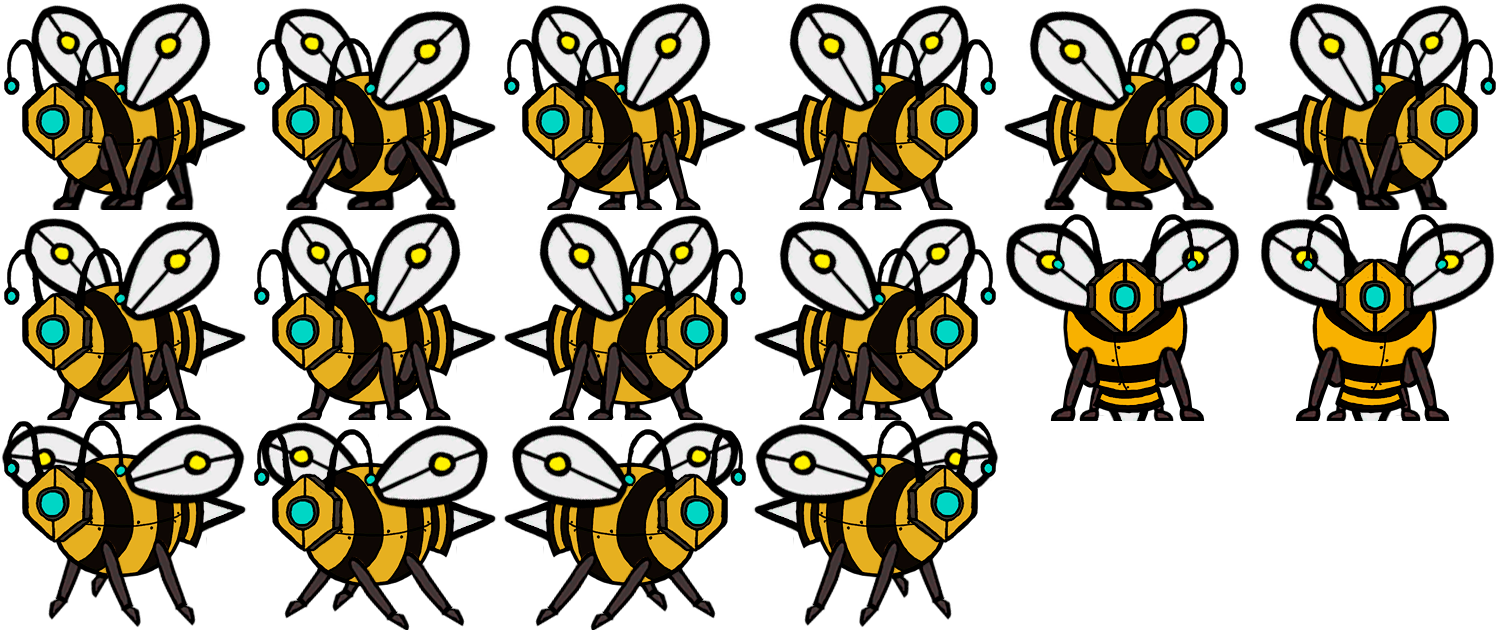
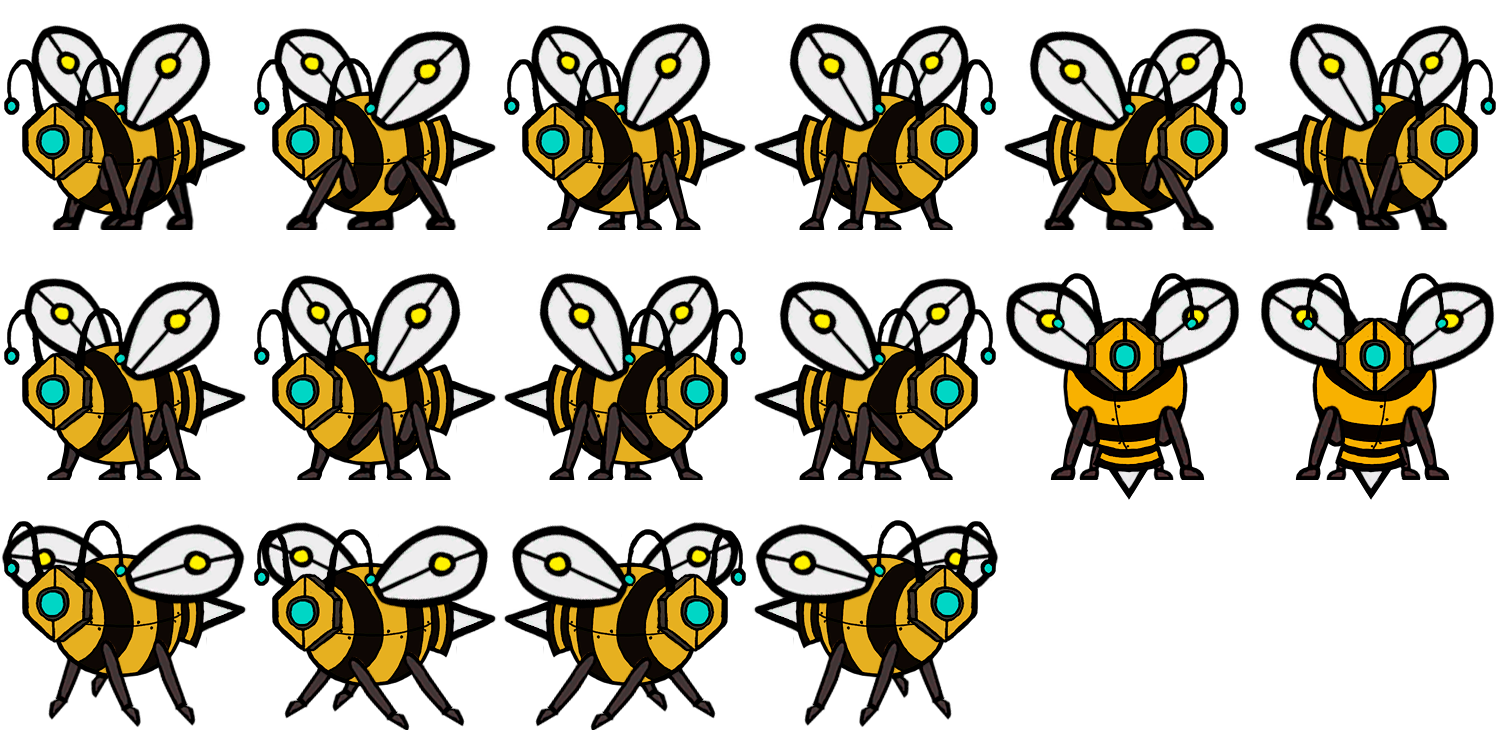
Testing. Like, a lot.

Changed region(s): [[0.0, 0.0, 1.0, 1.0]]

diff --git a/test.js b/test.js
@@ -1,11 +1,6 @@
+/**************************************************************************************************************************************************************************/
 let enemy;
-let hitEnemy;
-let mortimer;
-
-function destroyEnemy(lasers, enemy) {
-    // destroy the enemy when the laser touches it
-    enemy.destroy();
-}
+/**************************************************************************************************************************************************************************/
 
 class Test extends Phaser.Scene {
 
@@ -15,8 +10,12 @@ class Test extends Phaser.Scene {
 
     preload() {
 
-        this.load.spritesheet('beecon_full', 'assets/beecon_full.png', { frameWidth: 250, frameHeight: 210 });
+        this.load.spritesheet('beecon_full', 'assets/beecon_full.png', { frameWidth: 250, frameHeight: 250 });
+ 
+        /**************************************************************************************************************************************************************************/
         this.load.spritesheet('enemy', 'assets/enemy.png', { frameWidth: 50, frameHeight: 41 });
+        /**************************************************************************************************************************************************************************/
+
         this.load.image('sky', 'assets/sky.png');
         this.load.image('ground', 'assets/platform.png');
         this.load.image('breakableGround', 'assets/breakablePlatform.png');
@@ -27,6 +26,10 @@ class Test extends Phaser.Scene {
         this.load.image('chargeReady', 'assets/chargeReady.png');
         this.load.image('clouds', 'assets/cloud.png');
 
+        /**************************************************************************************************************************************************************************/
+        this.load.image('gameOver', 'assets/gameOver.png');
+        /**************************************************************************************************************************************************************************/
+
     }
 
     create() {
@@ -34,8 +37,6 @@ class Test extends Phaser.Scene {
         this.scale.refresh();
 
         this.cameras.main.fadeIn(1000);
-
-        /************************************************************************** PHYSICS ****************************************************************************/
 
         platforms = this.physics.add.staticGroup();
         lasers = this.physics.add.group({allowGravity: false});
@@ -46,12 +47,34 @@ class Test extends Phaser.Scene {
         this.add.image(1700, 1303, 'ground').setScale(5).setDepth(0);
         triggerPlatform = this.physics.add.group({ immovable: true, allowGravity: false });
         player = this.physics.add.sprite(100, 0, 'beecon_full').setScale(0.3).setDepth(0.2);
-        player.body.setSize(120, 0);
-        enemy = this.physics.add.sprite(300, 500, 'enemy').setScale(1.5).setDepth(0.2);
-        enemy.body.setSize(50, 0);
+        player.body.setSize(120, 120);
+        player.body.setOffset(65, 110);
+
+        /**************************************************************************************************************************************************************************/
+        //enemy = this.physics.add.sprite(300, 560, 'enemy').setScale(1.25).setDepth(0.2);
+        enemy = this.physics.add.sprite(1560, 250, 'enemy').setScale(1.25).setDepth(0.2);
+        enemy.body.setSize(35, 28);
+        enemy.body.setOffset(8, 13);
         enemy.setCollideWorldBounds(false);
         this.physics.add.collider(enemy, platforms);
-        this.physics.add.collider(lasers, enemy, destroyEnemy, null, this);
+        this.physics.add.overlap(player, enemy, function(player) {
+            player.alpha = 0;
+            player.anims.stop();
+            player.disableBody(true, true);
+            // Add game over image
+            let gameOverImage = this.add.image(player.x+320, game.config.height / 4, 'gameOver');
+            gameOverImage.setOrigin(0.5).setAlpha(0.75).setDepth(3);
+            let randomText = this.add.text(0, 0, 'PRESS ENTER TO RESTART', {font: '32px Arial', fill: '#fff'}).setOrigin(0.5);
+            randomText.setShadow(2, 2, '#000000', 2).setDepth(3);
+            randomText.setPosition(player.x+320, game.config.height / 2);
+            this.timer = this.time.addEvent({delay: 500, loop: true, callback: () => {randomText.visible = !randomText.visible}});
+            let j = this.input.keyboard.addKey(Phaser.Input.Keyboard.KeyCodes.J); this.input.keyboard.removeKey(j);
+            this.input.keyboard.on('keydown-ENTER', () => {this.scene.start('Test')}); }, null, this);
+        this.physics.add.overlap(lasers, enemy, function(enemy) {enemy.alpha === 0; enemy.anims.stop(); enemy.disableBody(true, true); lasers.setVelocity(0, 0)});
+        this.physics.add.overlap(bigLasers, enemy, function(enemy, bigLasers) {
+            if (bigLasers.body.velocity.x === 0) {return;} enemy.alpha = 0; enemy.anims.stop(); enemy.disableBody(true, true); });
+        /**************************************************************************************************************************************************************************/
+
         this.physics.add.collider(bigLasers, player);
         player.setBounce(0.2);
         player.setCollideWorldBounds(false);
@@ -155,8 +178,10 @@ class Test extends Phaser.Scene {
         this.anims.create({key: 'drill', frames: this.anims.generateFrameNumbers('beecon_full', { start: 10, end: 11 }), frameRate: 30, repeat: -1});
         this.anims.create({key: 'enemyChill', frames: this.anims.generateFrameNumbers('enemy', { start: 0, end: 1 }), frameRate: 10, repeat: -1});
 
+/**************************************************************************************************************************************************************************/
         enemy.anims.play('enemyChill');
         enemy.setVelocityX(100);
+/**************************************************************************************************************************************************************************/
 
         keyA = this.input.keyboard.addKey(Phaser.Input.Keyboard.KeyCodes.A);
         keyD = this.input.keyboard.addKey(Phaser.Input.Keyboard.KeyCodes.D);
@@ -180,7 +205,7 @@ class Test extends Phaser.Scene {
     update() {
 
         camera.scrollX = player.x - game.config.width / 4;
-
+       
         if (clouds) {
             this.physics.world.wrap(clouds.body, clouds.width+30, true); // wrap the body of the image back to its starting position when it goes off-screen
         }
@@ -191,6 +216,7 @@ class Test extends Phaser.Scene {
             this.physics.world.wrap(clouds3.body, clouds3.width+30, true); // wrap the body of the image back to its starting position when it goes off-screen
         }
 
+/**************************************************************************************************************************************************************************/
         enemy.anims.play('enemyChill', true);
 
         if (enemy.body.touching.right) {
@@ -200,6 +226,7 @@ class Test extends Phaser.Scene {
             // Reverse the enemy's velocity to make it move right
             enemy.setVelocityX(100);
         }
+/**************************************************************************************************************************************************************************/
 
         keyA.on('down', enableKeys);
         keyD.on('down', enableKeys);
@@ -311,5 +338,9 @@ class Test extends Phaser.Scene {
         }
 
     }
+
+    /**************************************************************************************************************************************************************************/
+    shutdown() {this.timer.remove()};
+    /**************************************************************************************************************************************************************************/
 
 }

diff --git a/scene3.js b/scene3.js
@@ -6,7 +6,7 @@ class Scene3 extends Phaser.Scene {
 
     preload() {
 
-        this.load.spritesheet('beecon_full', 'assets/beecon_full.png', { frameWidth: 250, frameHeight: 210 });
+        this.load.spritesheet('beecon_full', 'assets/beecon_full.png', { frameWidth: 250, frameHeight: 250 });
         this.load.image('sky', 'assets/sky.png');
         this.load.image('ground', 'assets/platform.png');
         this.load.image('wall', 'assets/wall.png');
@@ -33,7 +33,8 @@ class Scene3 extends Phaser.Scene {
         triggerPlatform = this.physics.add.group({ immovable: true, allowGravity: false });
         triggerPlatformBack = this.physics.add.group({ immovable: true, allowGravity: false });
         player = this.physics.add.sprite(100, 0, 'beecon_full').setScale(0.3).setDepth(0.2);
-        player.body.setSize(120, 0);
+        player.body.setSize(120, 120);
+        player.body.setOffset(65, 110);
         this.physics.add.collider(bigLasers, player);
         player.setBounce(0.2);
         player.setCollideWorldBounds(false);

diff --git a/scene1.js b/scene1.js
@@ -6,7 +6,7 @@ class Scene1 extends Phaser.Scene {
 
     preload() {
 
-        this.load.spritesheet('beecon_full', 'assets/beecon_full.png', { frameWidth: 250, frameHeight: 210 });
+        this.load.spritesheet('beecon_full', 'assets/beecon_full.png', { frameWidth: 250, frameHeight: 250 });
         this.load.image('sky', 'assets/sky.png');
         this.load.image('ground', 'assets/platform.png');
         this.load.image('breakableGround', 'assets/breakablePlatform.png');
@@ -36,7 +36,8 @@ class Scene1 extends Phaser.Scene {
         this.add.image(1700, 1303, 'ground').setScale(5).setDepth(0);
         triggerPlatform = this.physics.add.group({ immovable: true, allowGravity: false });
         player = this.physics.add.sprite(100, 0, 'beecon_full').setScale(0.3).setDepth(0.2);
-        player.body.setSize(120, 0);
+        player.body.setSize(120, 120);
+        player.body.setOffset(65, 110);
         this.physics.add.collider(bigLasers, player);
         player.setBounce(0.2);
         player.setCollideWorldBounds(false);

diff --git a/scene2.js b/scene2.js
@@ -6,7 +6,7 @@ class Scene2 extends Phaser.Scene {
 
     preload() {
 
-        this.load.spritesheet('beecon_full', 'assets/beecon_full.png', { frameWidth: 250, frameHeight: 210 });
+        this.load.spritesheet('beecon_full', 'assets/beecon_full.png', { frameWidth: 250, frameHeight: 250 });
         this.load.image('wall', 'assets/wall.png');
         this.load.image('mountains', 'assets/mountains.png');
         this.load.image('laser', 'assets/laser.png');
@@ -30,7 +30,8 @@ class Scene2 extends Phaser.Scene {
         this.add.image(1700, 1303, 'ground').setScale(5).setDepth(0);
         triggerPlatform = this.physics.add.group({ immovable: true, allowGravity: false });
         player = this.physics.add.sprite(100, 0, 'beecon_full').setScale(0.3).setDepth(0.2);
-        player.body.setSize(120, 0);
+        player.body.setSize(120, 120);
+        player.body.setOffset(65, 110);
         this.physics.add.collider(bigLasers, player);
         player.setBounce(0.2);
         player.setCollideWorldBounds(false);

diff --git a/opening.js b/opening.js
@@ -6,7 +6,7 @@ class Opening extends Phaser.Scene {
 
   preload() {
     
-    this.load.spritesheet('beecon_full', 'assets/beecon_full.png', { frameWidth: 250, frameHeight: 210 });
+    this.load.spritesheet('beecon_full', 'assets/beecon_full.png', { frameWidth: 250, frameHeight: 250 });
     this.load.image('ground', 'assets/platform.png');
     this.load.image('title', 'assets/title.png');
 
@@ -19,7 +19,8 @@ class Opening extends Phaser.Scene {
     this.input.keyboard.on('keydown-ENTER', () => {this.scene.start('Scene1')});
     platforms = this.physics.add.staticGroup();
     player = this.physics.add.sprite(0, 600, 'beecon_full').setScale(0.3);
-    player.body.setSize(120, 0);
+    player.body.setSize(120, 120);
+    player.body.setOffset(65, 110);
     player.setCollideWorldBounds(true);
     platforms.create(this.game.canvas.width/2, this.game.canvas.height/3.5, 'title').setScale(1).refreshBody();
 
